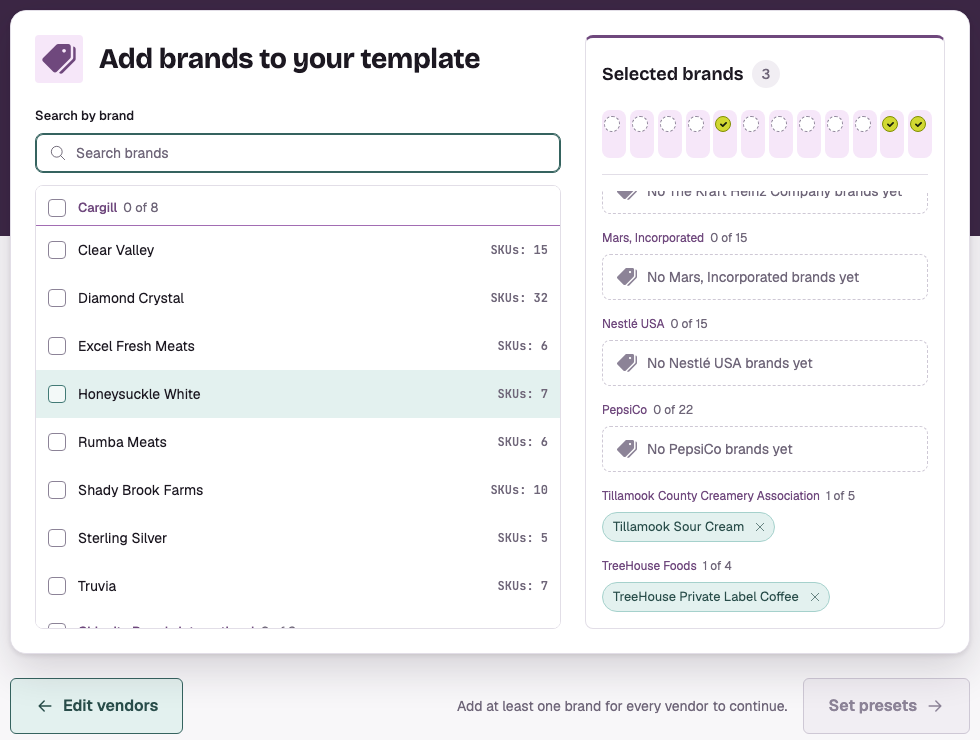
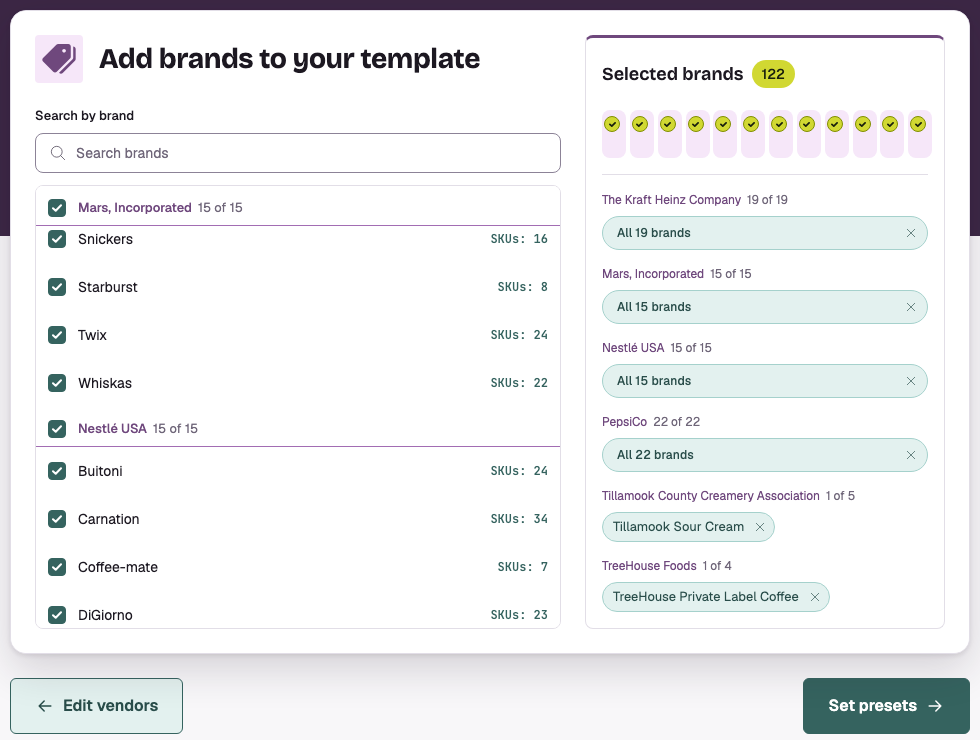
Steps 2-4 pressure test findings, motion options for steps 3-4
- docs/pressure-tests/steps-2-4.md with screenshots (12 vendors, 122 brands)
- docs/motion-options-steps-3-4.md (options only, nothing built)
- Open questions for the findings and the spec defaults used; handoff status

diff --git a/docs/pressure-tests/steps-2-4.md b/docs/pressure-tests/steps-2-4.md
@@ -1,0 +1,32 @@
+# Steps 2–4 pressure test: 12 vendors, 122 brands (Oct 18)
+
+The heaviest realistic template: 12 vendors including the giants (PepsiCo 22 brands, Coca-Cola 20, Conagra 20, General Mills 19, Kraft Heinz 19, Nestlé 15, Mars 15), both Coca-Colas (shared brand names), and small ones (Chiquita 3, TreeHouse 4, Tillamook 5). 160 brands to choose from; 122 selected; all three presets set. Run in the app (`src/data/mockBrands.ts`), screenshots in `step-2-4/`. Findings and options only: the decisions are Will's.
+
+## Fixed during the test
+
+- **Escape in the brand search wiped every selected brand** (24 → 0, no undo). React Aria's list clears its selection on Escape by default. Fixed and covered by a test (`docs/bugs.md`).
+
+## Holds up
+
+- **Step 2 list:** 160 rows with sticky vendor headers; search narrows quickly ("sprite" → 2 rows in 2 groups; "coca" → both Coca-Colas' 30 brands; "haagen" finds Haagen-Dazs; "p.f. chang" finds P.F. Chang's Home Menu).
+- **Chips:** no chip name is cut off, even "TreeHouse Private Label Coffee". "All N brands" chips keep big vendors compact.
+- **Next** unblocks only when all 12 vendors have a brand.
+- **Step 3:** all three presets set; nothing to note at this scale.
+- **Review:** the summary reads 12 / 122 / 3 of 3; presets read Jan 1, 2027 · CAD · Cost plus; both lists scroll inside the fixed card.
+
+## Needs a decision
+
+| # | Step | Finding | Evidence | Options |
+|---|---|---|---|---|
+| 1 | 2 | **The coverage strip doesn't scale.** 12 vendors squeeze into 12 tiles 24px wide: logos vanish and it reads as a row of tick marks. Fine up to about 4. | `s2-12-vendors-empty`, `s2-panel-top` | (a) wrap to rows of 3–4 (the strip grows, the chips get less room), (b) scroll the strip sideways, (c) past ~4 vendors, replace it with one line: "9 of 12 vendors have a brand" (the groups' "N of M" already say which), (d) drop the strip; the group headers and the CountBadge carry it |
+| 2 | 2 | **"No Conagra Brands brands yet."** The inline empty copy doubles "Brands" for vendors whose name ends in it (Conagra Brands, Constellation Brands, Utz Brands; Chiquita Brands International reads oddly too). | `s2-search-sprite` (Conagra group) | (a) "No brands from Conagra Brands yet", (b) "Nothing selected yet" (the group header already names the vendor), (c) keep |
+| 3 | 2 | **The same brand under two vendors.** "Sprite" appears in The Coca-Cola Company and Coca-Cola Consolidated (real: a brand and its bottler). Rows are told apart only by their group header; screen readers hear "Sprite, The Coca-Cola Company". Chips sit in their vendor's group too. | `s2-search-sprite` | (a) fine as is (grouping does the work), (b) show the vendor beside the brand while searching, (c) treat it as a data question for real vendor data |
+| 4 | 4 | **Review's Brands list is a long scroll.** 122 brands in a window that shows about 5 (228 of 4,880px). Checking a big template means scrolling 24 screens of rows. | `s4-review-big`, `s4-review-scrolled` | (a) group brands by vendor with a count, collapsed by default ("PepsiCo · 22 brands"), (b) list vendors with brand counts only and let Edit brands show the detail, (c) a taller list (the card is a fixed 644), (d) keep |
+| 5 | 4 | **Review's vendor rows still show the wordmark tile** ("CGL", "KO"), the look the step 1 results dropped as placeholder-like; and their **ESNs are bare numbers**, not "ESN-70441642" like the results and cards. | `s4-review-big` | (a) match step 1: no tile, "ESN-" format, (b) keep the tile on Review only |
+| 6 | 4 | **Long vendor names cut off in Review's Brands list.** The vendor column is mono and narrow: "Tillamook County Creamery Association" truncates. | `s4-review-big` (scroll to Tillamook) | (a) ellipsis + full name on hover (as now), (b) drop the vendor column when brands are grouped (see 4a) |
+
+## Noted, not now
+
+- Review's header pictogram and the Edit buttons still use the placeholder triangle (existing open questions).
+- Download shows a placeholder toast ("Download isn't built yet"), as agreed.
+- Review lists vendors A–Z (open question "Review order").

diff --git a/docs/motion-options-steps-3-4.md b/docs/motion-options-steps-3-4.md
@@ -1,0 +1,25 @@
+# Motion options for steps 3 and 4 (Oct 18)
+
+For Will to choose from; nothing here is built. Same rules as steps 1–2: functional and calm, motion only shows cause and effect, under 300ms, nothing loops or flashes, a reduced-motion fallback for each. Already in place on every step: the shared color and focus easing, Next easing between blocked and enabled, the toast.
+
+## Step 3 · Global presets
+
+| Option | What it shows | Recommendation |
+|---|---|---|
+| **Picking an option tile:** the radio dot scales in (fast) as the tile's fill and border ease | Which option you just chose | Yes: small, and the tile's colors already ease |
+| **The date picker opens and closes** with a fade and a 4px drop, like the vendor Results panel | It belongs to the Custom date tile | Yes, for consistency with step 1's panel |
+| **"Pick a date" → "Oct 28, 2026"** cross-fades in the Custom date tile when a date is confirmed | The choice landed | Yes (fade only) |
+| **Next month / Next quarter dates** tick when "today" rolls over | — | No: it never happens while someone is on the page |
+
+## Step 4 · Review
+
+| Option | What it shows | Recommendation |
+|---|---|---|
+| **The summary numbers count up once** on arrival (0 → 12, 0 → 122, ~400ms, ease-out) | "Here's what you built": the one celebratory moment the design already reserves (Display/Number and citron live here, decision log Oct 17) | Maybe: the one place a little celebration fits; skip if it feels like a dashboard gimmick |
+| **The three sections stagger in** (summary → lists → presets), like step 1's page load | Reading order | Yes, if step-to-step transitions come in too; otherwise it only plays on arrival |
+| **Download:** the stepper's line charges across once (the code-backlog "finale") | Done | Later, with the stepper charge-up (step-to-step motion is deferred) |
+| **Edit buttons:** none beyond the button's own state | — | Nothing extra |
+
+## Still deferred
+
+- The step-to-step transition (stepper charge-up, card slide) for all steps: `TODO(step-transition)`.

diff --git a/docs/open-questions.md b/docs/open-questions.md
@@ -87,3 +87,12 @@ Format: `[ ]` open / `[x]` answered · **Question** · Where · Options · Sourc
 - [ ] **No "Clear all" in the Selected brands panel** · Selection summary · The Oct 16 decision log mentions "Clear all gets an undo toast", but the current Selection summary (count + title) has no Clear all. Built without it; Undo exists only for the "All N brands" × · (a) add Clear all to the summary in Figma, (b) leave it out · Open
 - [ ] **Undo toast placement on step 2** · Select brands card · Bottom center of the card, over the brand list and panel (placeholder, like step 1's). Part of "Toast needs Figma design" · Open
 
+## From wiring steps 3–4 and the steps 2–4 pressure test (Oct 18)
+*Built with the default in each Status (Will: use spec defaults while away). Findings: `docs/pressure-tests/steps-2-4.md`.*
+- [ ] **Review order** · Review template card, Vendors and Brands lists · The spec says "step 1 order"; step 1 is now newest first and step 2 A–Z · (a) A–Z like step 2, (b) step 1 order · Open. Built as (a)
+- [ ] **Coverage strip with many vendors** · Selected brands panel · 12 vendors = 24px tiles, logos gone · (a) wrap, (b) scroll, (c) one summary line past ~4, (d) drop it · Open. Built as is
+- [ ] **"No Conagra Brands brands yet"** · Selected brands panel, inline empty · Doubles "Brands" for some vendor names · (a) "No brands from {vendor} yet", (b) "Nothing selected yet", (c) keep · Open. Built as (c)
+- [ ] **Review's Brands list at scale** · Review template card · 122 brands in a 5-row window · (a) group by vendor, collapsed, (b) vendor counts only, (c) taller list, (d) keep · Open. Built as (d)
+- [ ] **Review vendor rows: tile and ESN format** · Review row · Still the wordmark tile and a bare ESN, unlike step 1 · (a) match step 1, (b) keep · Open. Built as (b)
+- [ ] **Download template** · Wizard footer, step 4 · A placeholder toast "Download isn't built yet" (Will, Oct 18) until there's a real export · Open. Built as a toast
+

diff --git a/docs/handoff.md b/docs/handoff.md
@@ -89,6 +89,12 @@ Cards — Select vendors card `689:358`; Select brands card `772:2750`; Brand li
 - Every story links its Figma component (Design tab) and shows its spec at the bottom of its Docs page. Storybook's Project section shows `docs/open-questions.md` and `docs/figma-sync.md` live.
 - **Waiting on Will:** open questions in `docs/open-questions.md`; Figma queue in `docs/figma-sync.md` (four dimension tokens, filled-icon re-export).
 
+## Status (Oct 18, evening)
+- **The app runs all four steps** (`npm run dev`) on 60 real mock vendors and 551 brands: vendors → brands → presets → review, with picks kept, Edit from Review, page titles and heading focus. Download is a placeholder toast. Step-to-step motion is deferred (`TODO(step-transition)`).
+- **Motion built for steps 1–2** (decision log "Step 1 motion", "Step 2 motion"); options for steps 3–4 in `docs/motion-options-steps-3-4.md`.
+- **Pressure tests:** step 1 (`docs/pressure-tests/step-1.md`, decided) and steps 2–4 (`docs/pressure-tests/steps-2-4.md`, waiting for Will).
+- **Figma reconcile queue** is long: `docs/figma-sync.md`.
+
 ## Next
 1. Will: answer the open questions (steps 1–4); apply the Figma queue (now 8 dimension tokens + the filled-icon re-export) and re-export `tokens.css` and the three icons.
 2. React app: page shell (Focus header → stepper stage → 644 card → wizard footer), routing between the four steps with state kept across Back / Edit, page titles, the stepper charge-up.
